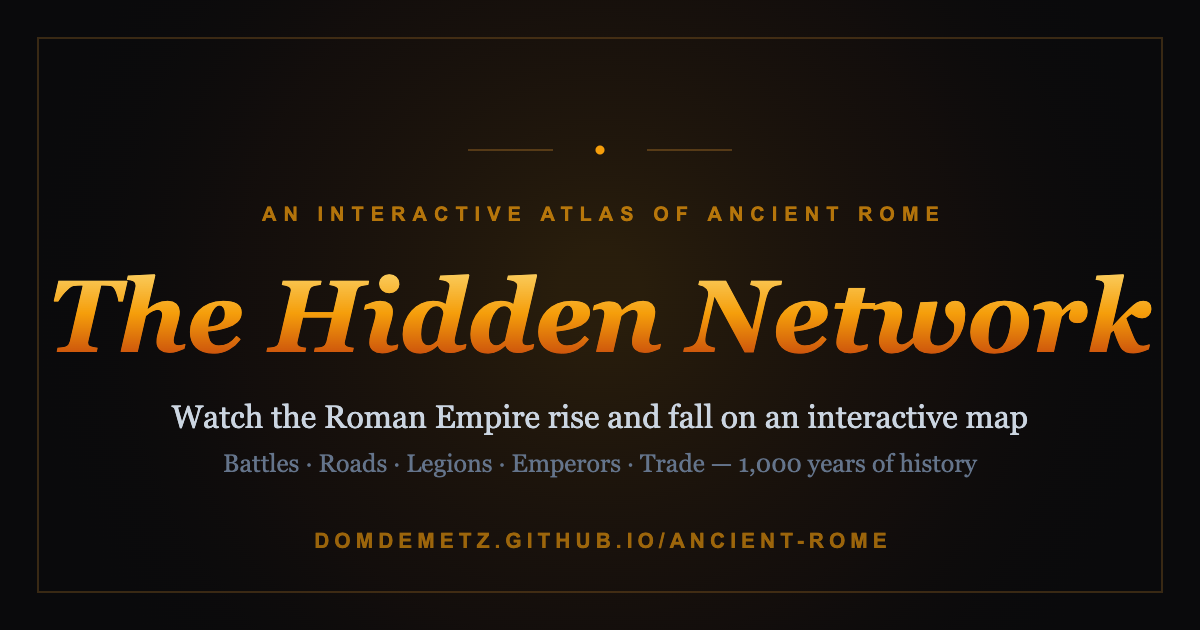
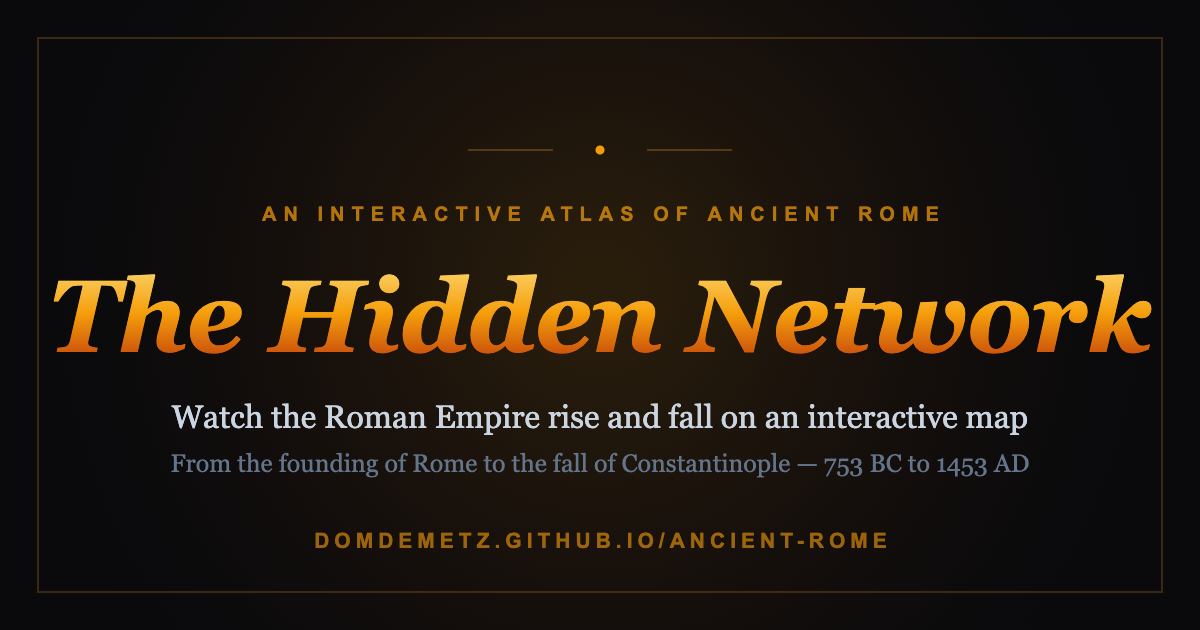
feat: Byzantine story tour + refresh the atlas's identity to its full span
New guided story, "The Empire That Refused to Die" — seven steps through the
millennium added this week: 476 (Zeno endures), Justinian's reconquest, the
Arab sieges, Basil II's zenith, Manzikert & the 1204 sack, the 1261
restoration, and Constantine XI on the walls in 1453. Each step drives the
map to the right year, borders, battles and reigning emperor (step 1 sits at
485 so Zeno, not the last western claimant, holds the banner; 1204's empty
banner is the real interregnum).

The site also still sold itself as "1,000 years" — it now spans twenty-two
centuries. Updated meta descriptions, README, landing hero and regenerated
the og-image: "From the founding of Rome to the fall of Constantinople —
753 BC to 1453 AD."

Changed region(s): [[0.1233, 0.7238, 0.8633, 0.754]]

diff --git a/index.html b/index.html
@@ -8,7 +8,7 @@
     <title>The Hidden Network — An Interactive Atlas of Ancient Rome</title>
     <meta
       name="description"
-      content="Watch the Roman Empire rise and fall on an interactive map. Trace battles, roads, legions, emperors and the trade routes that bound an empire — across 1,000 years of history."
+      content="Watch the Roman Empire rise and fall on an interactive map. Trace battles, roads, legions, emperors and the trade routes that bound an empire — from the founding of Rome in 753 BC to the fall of Constantinople in 1453 — twenty-two centuries on one timeline."
     />
     <link rel="canonical" href="https://domdemetz.github.io/Ancient-Rome/" />
 
@@ -18,7 +18,7 @@
     <meta property="og:title" content="The Hidden Network — An Interactive Atlas of Ancient Rome" />
     <meta
       property="og:description"
-      content="Watch the Roman Empire rise and fall on an interactive map. Battles, roads, legions, emperors and trade routes, across 1,000 years."
+      content="Watch the Roman Empire rise and fall on an interactive map. Battles, roads, legions, emperors and trade — from the founding of Rome to the fall of Constantinople, 753 BC to 1453 AD."
     />
     <meta property="og:image" content="https://domdemetz.github.io/Ancient-Rome/og-image.png" />
 
@@ -27,7 +27,7 @@
     <meta name="twitter:title" content="The Hidden Network — An Interactive Atlas of Ancient Rome" />
     <meta
       name="twitter:description"
-      content="Watch the Roman Empire rise and fall on an interactive map. 1,000 years of battles, roads, legions and trade."
+      content="Watch the Roman Empire rise and fall on an interactive map. From the founding of Rome to the fall of Constantinople — 2,200 years of battles, roads and trade."
     />
     <meta name="twitter:image" content="https://domdemetz.github.io/Ancient-Rome/og-image.png" />
   </head>

diff --git a/src/features/landing/LandingPage.tsx b/src/features/landing/LandingPage.tsx
@@ -42,8 +42,8 @@ export function LandingPage() {
         </h1>
 
         <p className="mb-12 max-w-xl text-base text-slate-500 md:text-lg leading-relaxed animate-fade-up stagger-3">
-          Trace the hidden connections of Ancient Rome — senators, emperors, legions, and the trade
-          routes that bound an empire.
+          From the founding of Rome to the fall of Constantinople — twenty-two centuries of
+          emperors, legions, cities and the trade routes that bound an empire, on one map.
         </p>
 
         <button

diff --git a/README.md b/README.md
@@ -2,7 +2,7 @@
 
 Watch the Roman Empire rise and fall on an interactive map. Trace battles, roads,
 legions, emperors, aqueducts, and the trade routes that bound an empire — across a
-thousand years of history, on a single timeline you can scrub through.
+span from the founding of Rome in 753 BC to the fall of Constantinople in 1453 — twenty-two centuries on a single timeline you can scrub through.
 
 <!-- Live demo: add URL here once deployed -->
 <!-- Screenshot: add public/og-image.png (a real 1200×630 capture of the map) -->
@@ -19,7 +19,7 @@ and wraps it in a narrative you can actually follow.
 
 ## Features
 
-- **Timeline playback** — scrub through ~1,000 years and watch territory, roads, and
+- **Timeline playback** — scrub 753 BC → 1453 AD and watch territory, roads, and
   cities change over time, with smooth cross-fades between eras.
 - **Layered atlas** — battles, legions, emperors, aqueducts, ports, mines, trade
   routes, epigraphy, shipwrecks, religious sites, and more, each toggleable.